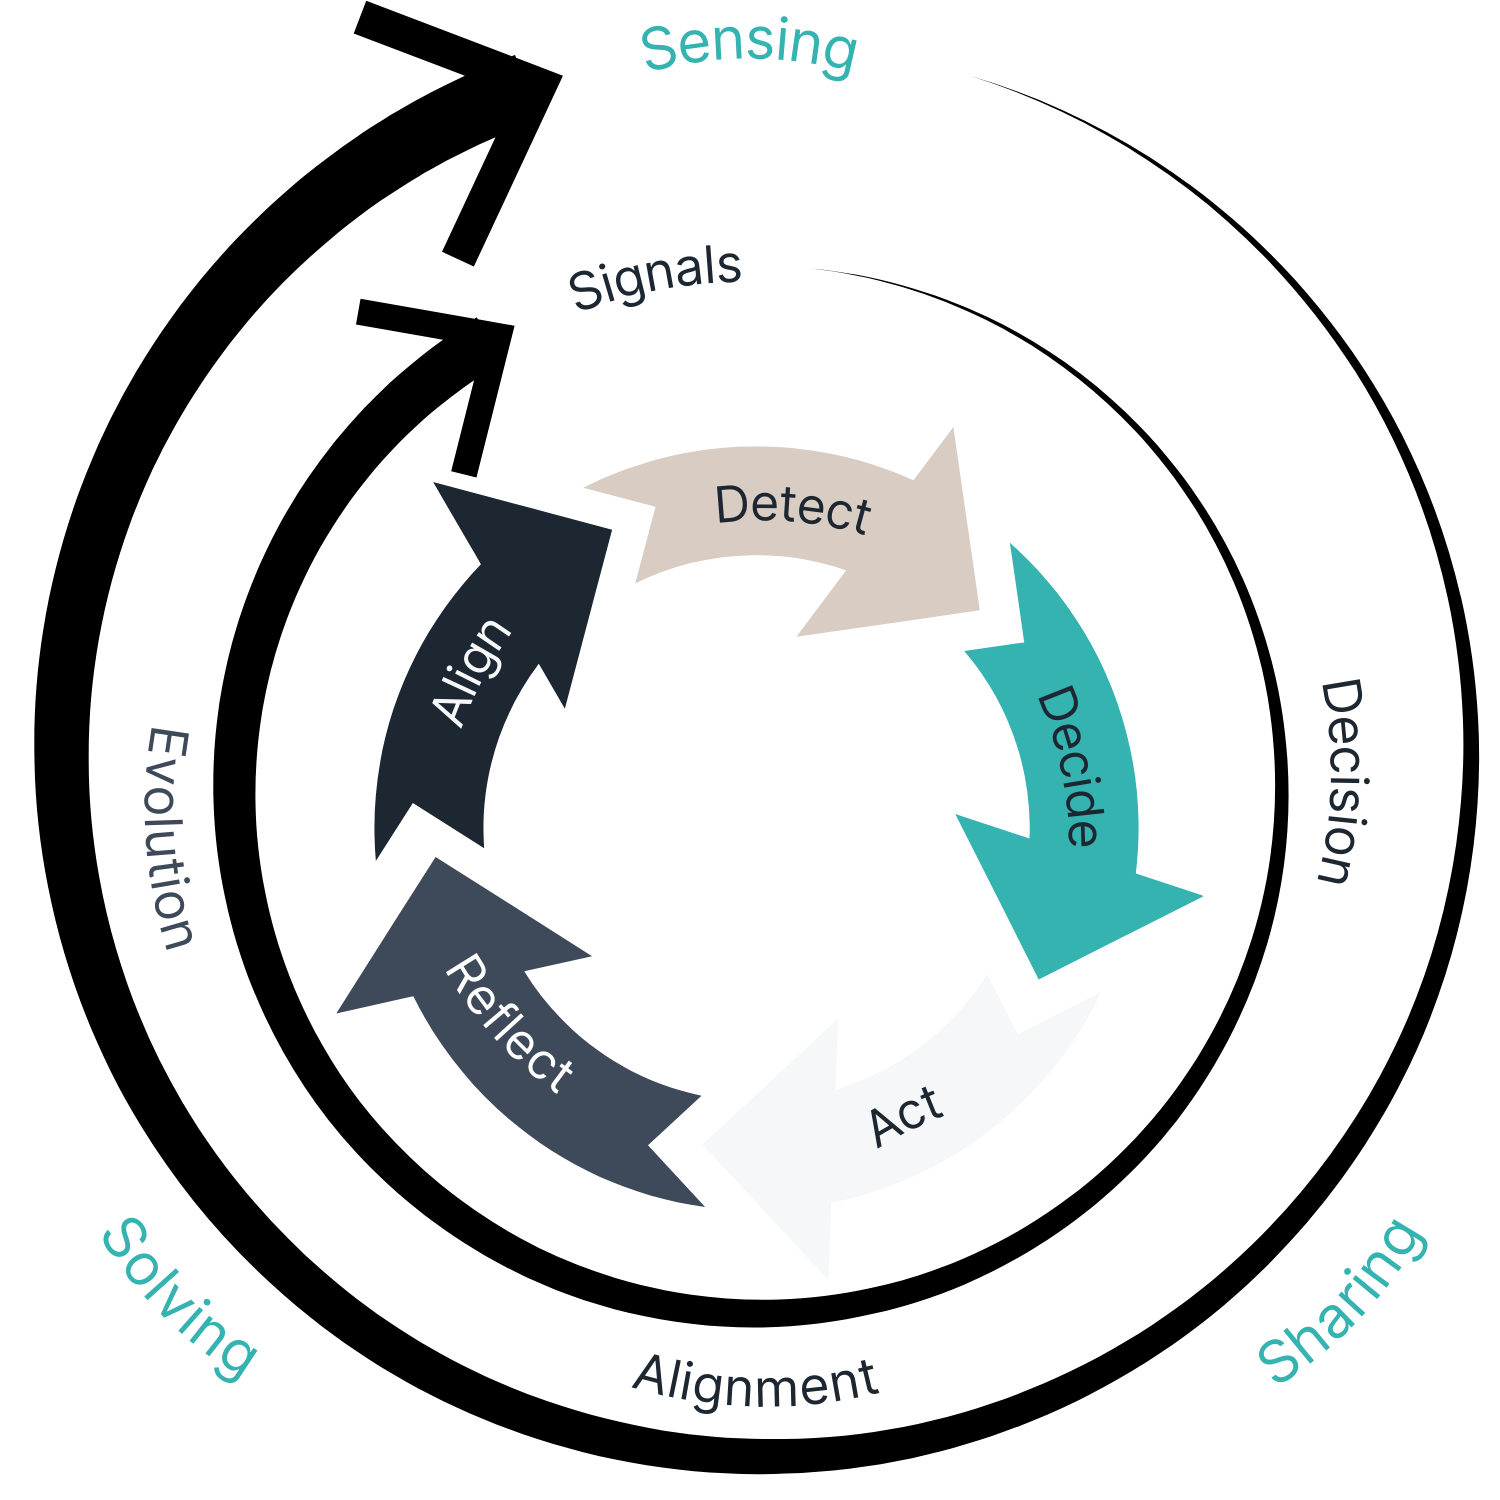
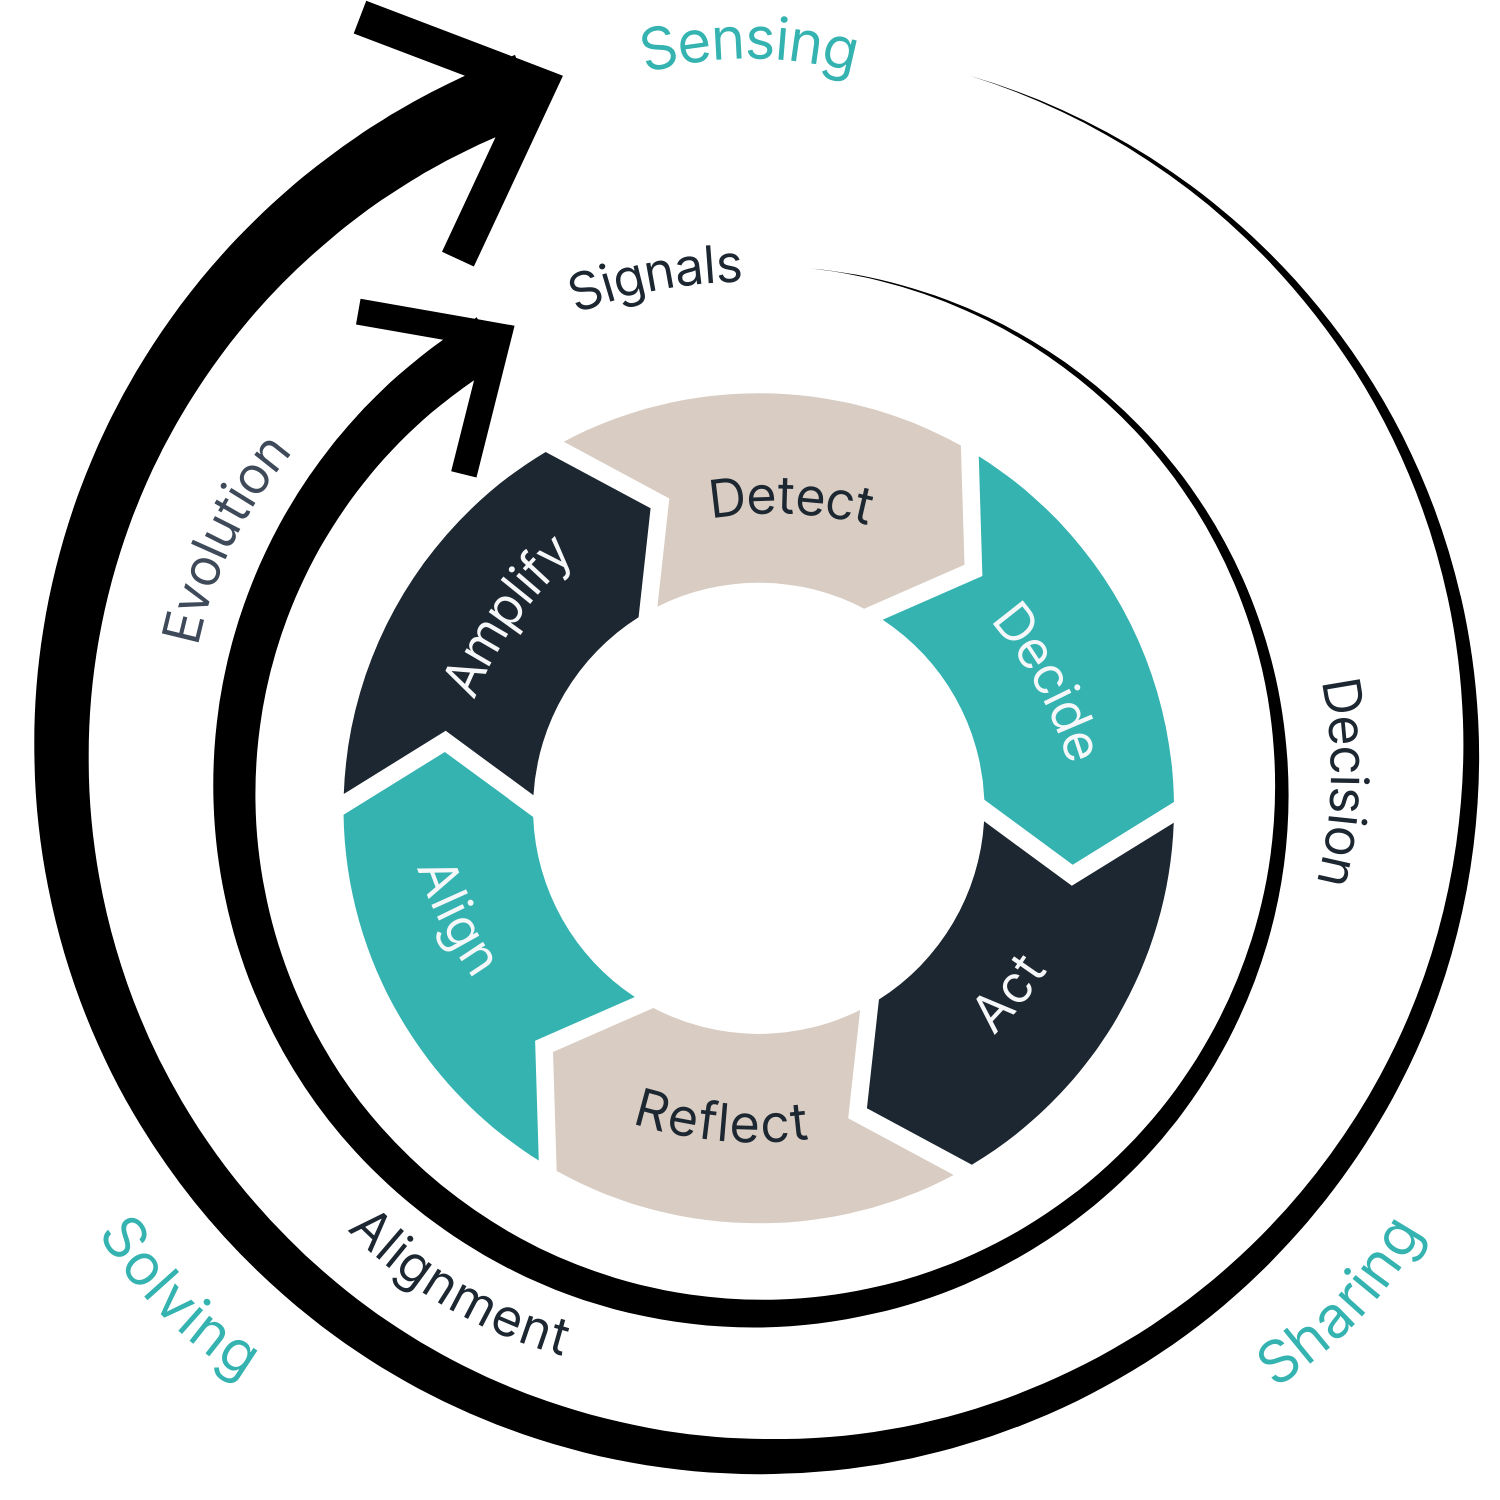
Further tweaks and changes to content

diff --git a/pages/how-it-works/rotation-overview.md b/pages/how-it-works/rotation-overview.md
@@ -8,6 +8,8 @@ sidebar:
   nav: side-navigation
 ---
 
+![Flywheel Rotation](/assets/images/flywheel-rotation.png){: .align-center width="400px"}
+
 A Flywheel Rotation is a short, focused cycle that helps your organization move from stuck to flowing.
 
 We help you spot where value is getting delayed or teams are misaligned, then guide you through a lightweight process to uncover the root cause, take action, and learn what works.
@@ -39,6 +41,8 @@ We guide your team through five connected steps:
 **4. Reflect** Hold a short review—what worked, what didn’t, and what we learned.
 
 **5. Align** Feed the learning into your Flow Roadmap so future changes are better informed.
+
+**6. Amplify** Celebrate progress. Spread what works. Recognize wins, share effective practices, and build momentum.
 
 ## What you get from one rotation
 

diff --git a/pages/toolkit/toolkit-overview.md b/pages/toolkit/toolkit-overview.md
@@ -1,7 +1,7 @@
 ---
 permalink: /toolkit/toolkit-overview
-title: "The Fast Flow Flywheel Toolkit"
-excerpt: "The Fast Flow Flywheel Toolkit is a collection of tools and resources to help you implement the Fast Flow Flywheel."
+title: "The Fast Flow Toolkit"
+excerpt: "The Fast Flow Toolkit is a collection of tools and resources to help facilitate your Fast Flow Flywheel."
 layout: single
 author_profile: false
 classes: wide
@@ -9,7 +9,7 @@ sidebar:
   nav: side-navigation
 ---
 
-The Flywheel Toolkit is a collection of tools and resources we use to help you implement the Fast Flow Flywheel. It includes the following key elements:
+The Fast Flow Toolkit is a collection of tools and resources to help facilitate your Fast Flow Flywheel. It includes the following key elements:
 
 ## [🧭 Strategy](/toolkit/toolkit-strategy)
 

diff --git a/pages/overview.md b/pages/overview.md
@@ -84,10 +84,14 @@ The Fast Flow Flywheel gives your organization:
 - A living Flow Roadmap to track progress and keep momentum
 - A language and process for making better org design decisions—together
 
-Ready to Start Spinning the Flywheel?
+## Want to take a closer look?
+
+[Learn more about a Fast Flow Flywheel Rotation](/how-it-works/rotation-overview)
+
+## Ready to Start Spinning the Flywheel?
 
 Whether you're navigating a platform redesign, team topologies adoption, or broader org transformation, the Flywheel helps you build flow into your operating model—one signal, one decision at a time.
 
 [Book a Discovery Call](/contact)
 
-[Get your Flywheel Spinning](/engagements/kickstart-essentials)
+Or learn more about how to [Get your Flywheel Spinning](/engagements/kickstart-essentials)

diff --git a/pages/toolkit/toolkit-strategy.md b/pages/toolkit/toolkit-strategy.md
@@ -1,6 +1,6 @@
 ---
 permalink: /toolkit/toolkit-strategy
-title: "The Fast Flow Flywheel Toolkit - Strategy"
+title: "The Fast Flow Toolkit - Strategy"
 excerpt: "The **Strategy** element helps define the big-picture direction that team structures, capabilities, and flow decisions should serve. It anchors the system in **outcomes that matter**, so that tactical and structural choices stay grounded in purpose."
 layout: single
 author_profile: false

diff --git a/pages/toolkit/toolkit-reflection.md b/pages/toolkit/toolkit-reflection.md
@@ -1,6 +1,6 @@
 ---
 permalink: /toolkit/toolkit-reflection
-title: "🔄 The Fast Flow Flywheel Toolkit - Reflection"
+title: "🔄 The Fast Flow Toolkit - Reflection"
 excerpt: "Review progress and assess whether the changes made have resulted in improved flow and alignment. Questions or prompts for reflection, helping users assess how the flow is evolving and where they may need to double down on efforts."
 layout: single
 author_profile: false

diff --git a/pages/toolkit/toolkit-alignment.md b/pages/toolkit/toolkit-alignment.md
@@ -1,7 +1,7 @@
 ---
 
 permalink: /toolkit/toolkit-alignment
-title: "The Fast Flow Flywheel Toolkit - Alignment"
+title: "The Fast Flow Toolkit - Alignment"
 excerpt: "The **Alignment** element helps ensure that **teams, services, structures, and decisions** remain clearly connected to the **organization’s strategic goals**, user needs, and flow outcomes."
 layout: single
 author_profile: false

diff --git a/pages/toolkit/toolkit-tactics.md b/pages/toolkit/toolkit-tactics.md
@@ -1,6 +1,6 @@
 ---
 permalink: /toolkit/toolkit-tactics
-title: "The Fast Flow Flywheel Toolkit - Tactics"
+title: "The Fast Flow Toolkit - Tactics"
 excerpt: "Tactical interventions to optimize flow, autonomy, and decision-making in specific areas. The specific steps to address bottlenecks, adjust structures, or increase alignment and coordination."
 layout: single
 author_profile: false

diff --git a/pages/toolkit/toolkit-signals.md b/pages/toolkit/toolkit-signals.md
@@ -1,6 +1,6 @@
 ---
 permalink: /toolkit/toolkit-signals
-title: "The Fast Flow Flywheel Toolkit - Signals"
+title: "The Fast Flow Toolkit - Signals"
 excerpt: "Identify key indicators or challenges that highlight flow issues or bottlenecks in the organization. Helps diagnose flow problems by identifying symptoms or early warnings."
 layout: single
 author_profile: false

diff --git a/pages/toolkit/toolkit-plays.md b/pages/toolkit/toolkit-plays.md
@@ -1,6 +1,6 @@
 ---
 permalink: /toolkit/toolkit-plays
-title: "The Fast Flow Flywheel Toolkit - Plays"
+title: "The Fast Flow Toolkit - Plays"
 excerpt: "Strategic actions to address flow blockers and improve alignment or efficiency. High-level actions for organizational and team-level improvements."
 layout: single
 author_profile: false
